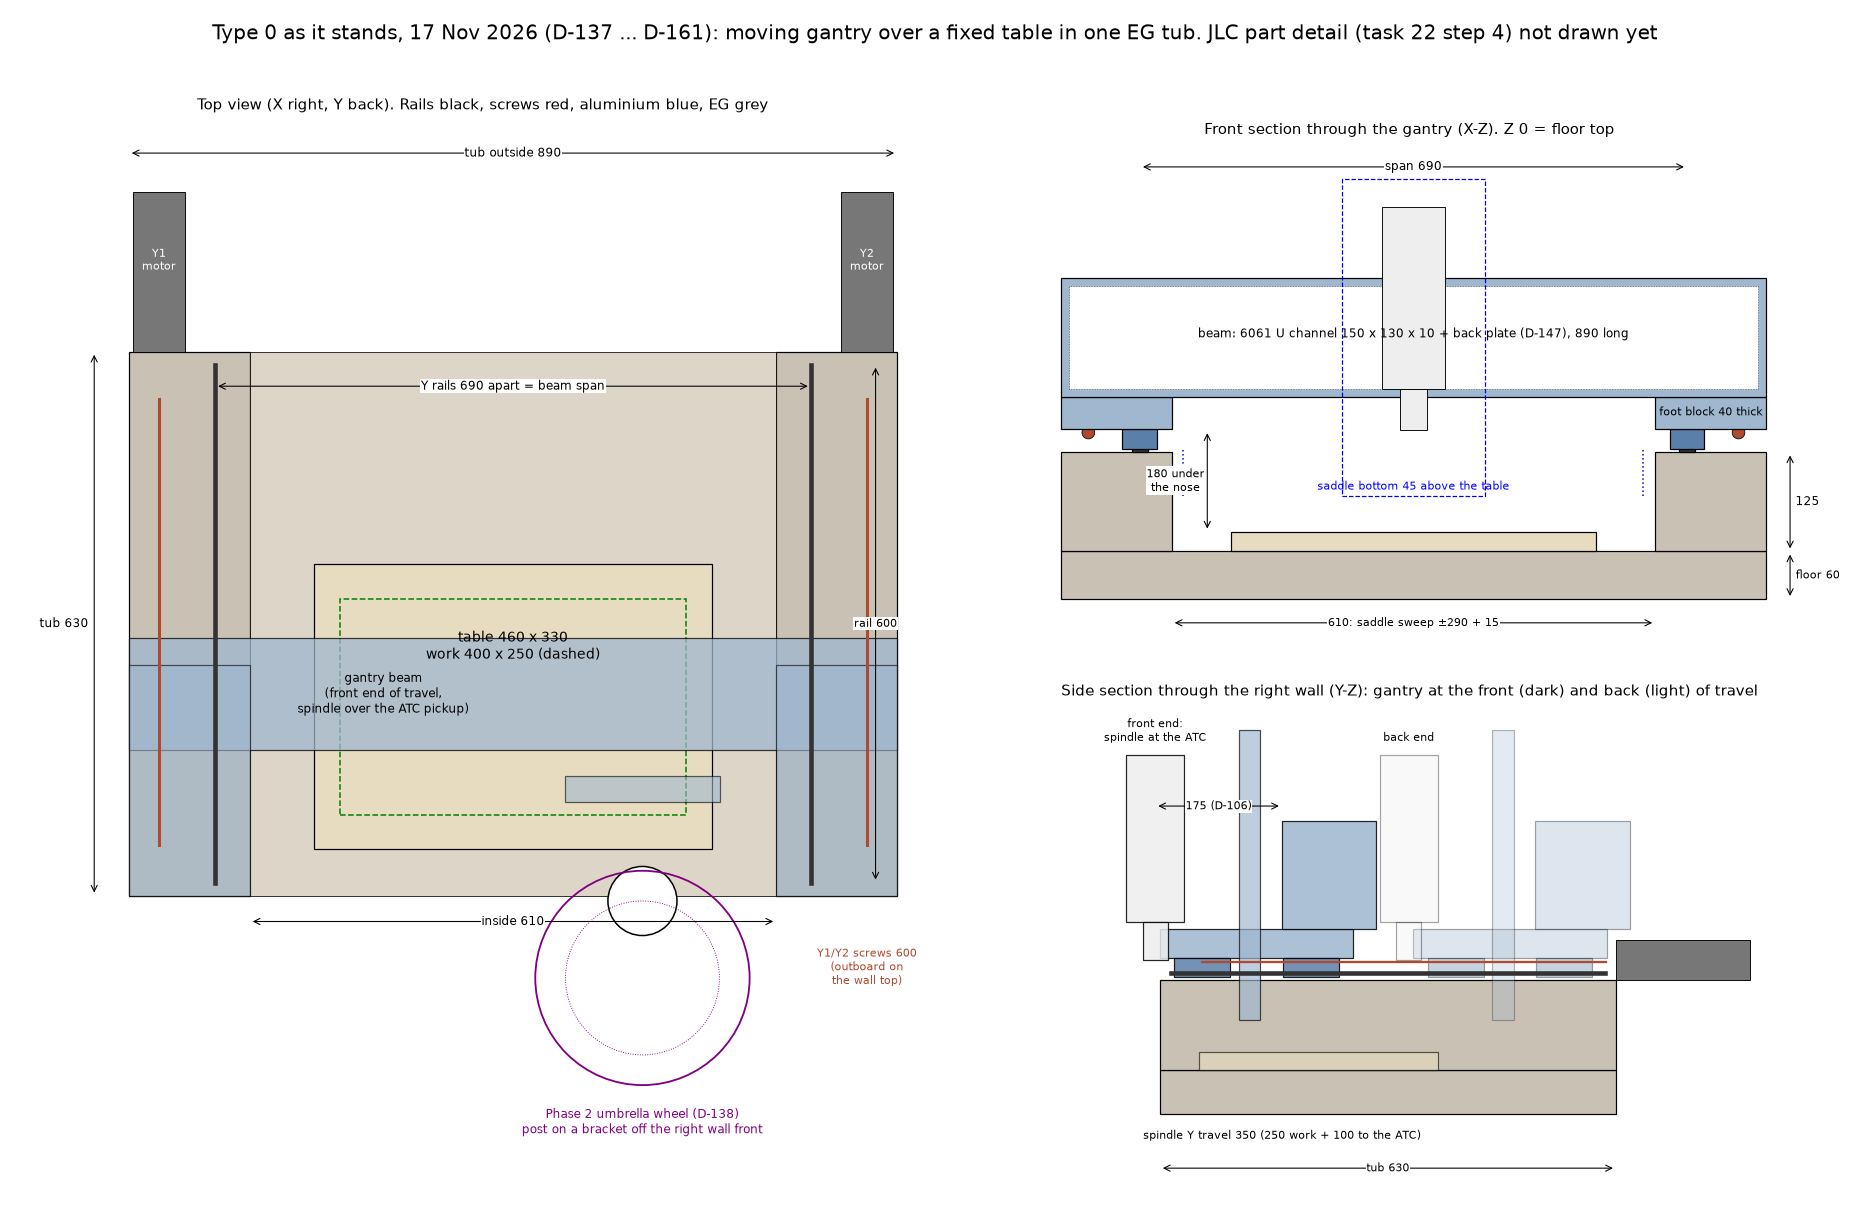
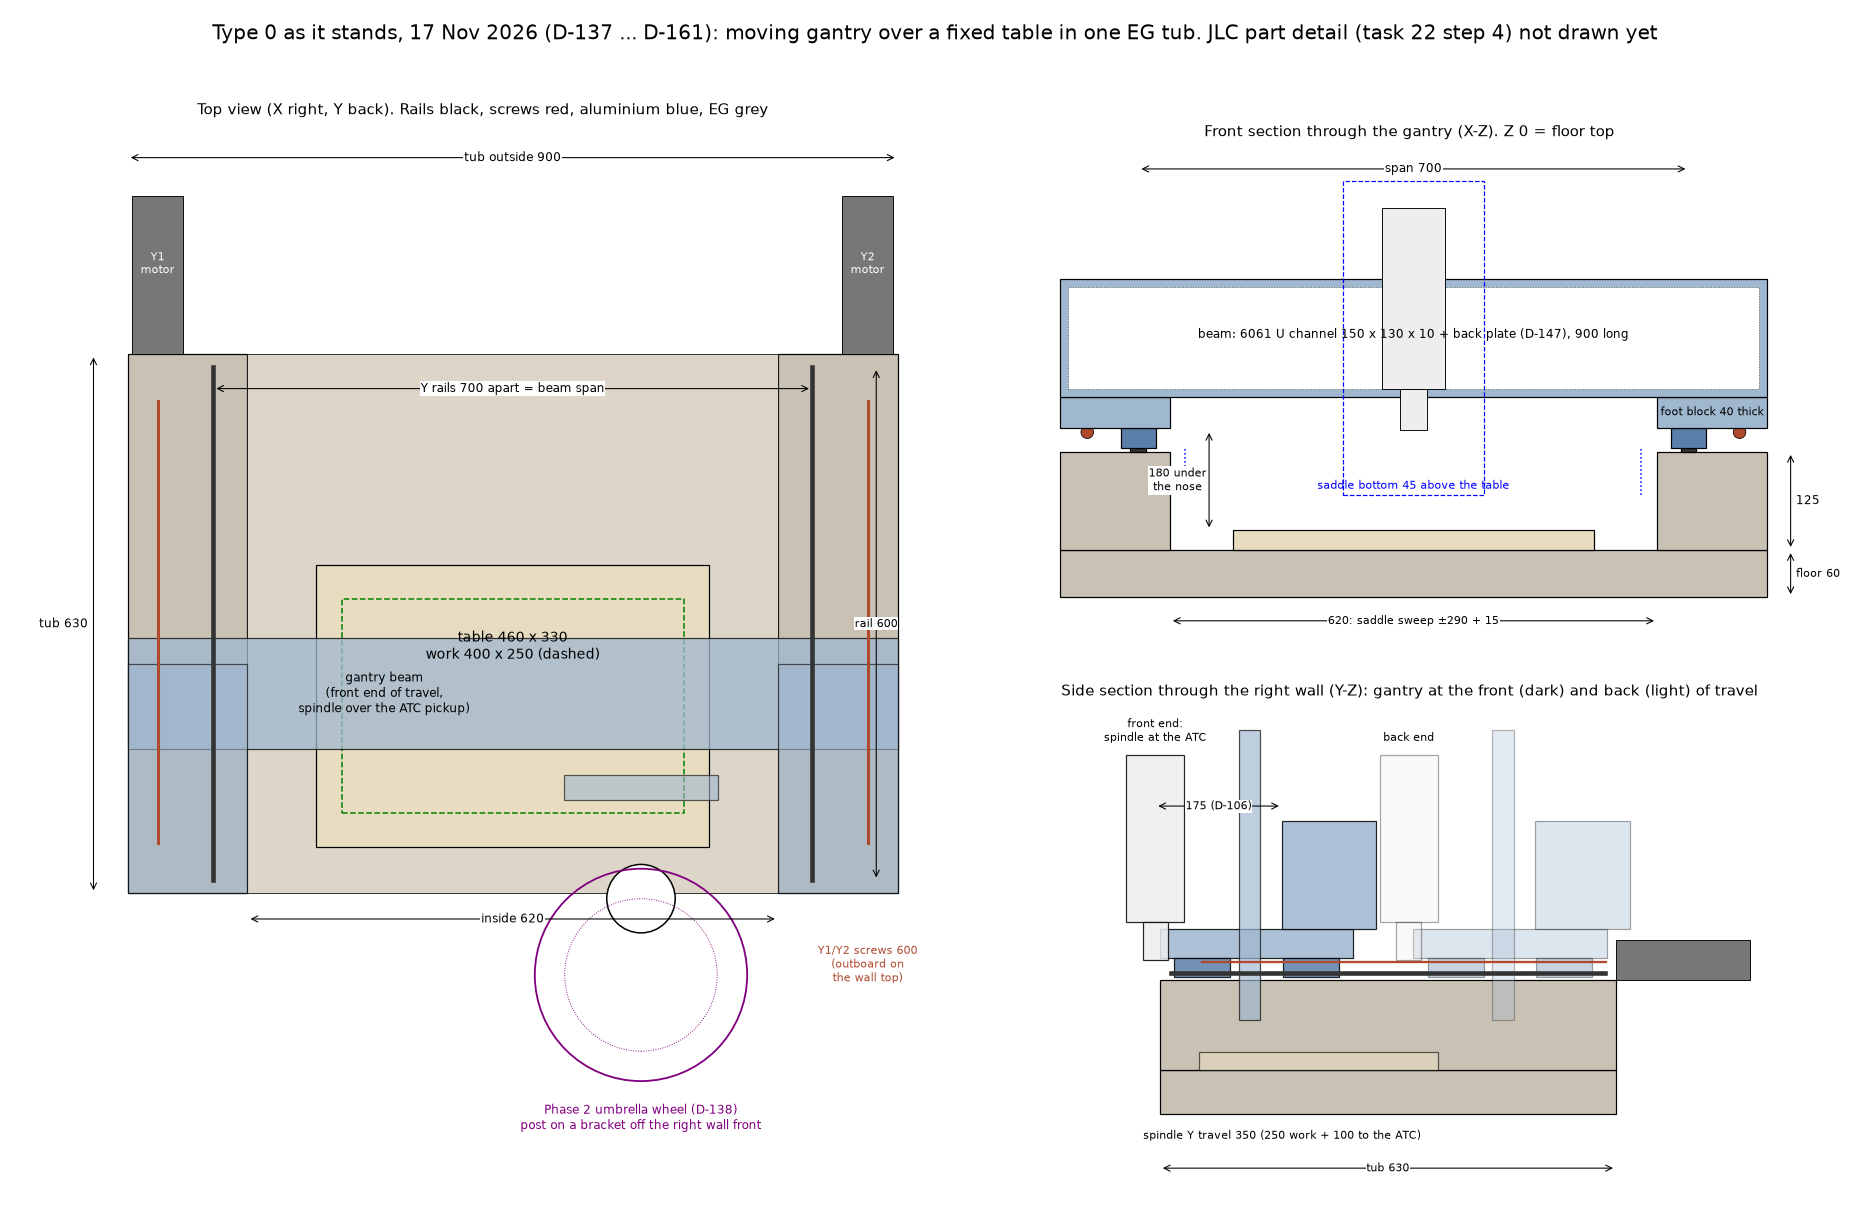
D-173: widen the tub to 900 so the Y rails sit 700 apart

diff --git a/cad/v2/gantry_sketch.py b/cad/v2/gantry_sketch.py
@@ -35,12 +35,12 @@ S["beam_zc"] = S["nose_top"] + 65                        # same Z stack as now (
 S["beam_z"] = (S["beam_zc"] - beam_h / 2, S["beam_zc"] + beam_h / 2)
 S["saddle_z0"] = S["beam_zc"] - 200                      # 400-tall saddle, unchanged
 S["saddle_x_sweep"] = work_x / 2 + saddle_w / 2          # 290
-S["wall_in_x"] = S["saddle_x_sweep"] + 15                # 305: saddle clears the walls
+S["wall_in_x"] = S["saddle_x_sweep"] + 20                # 310: Y rails 700 apart for the PrintNC gantry (D-173)
 wall_w = 140.0
 S["wall_w"] = wall_w
 S["rail_x"] = S["wall_in_x"] + 40                        # rail on the wall top, 40 from the inner edge
 S["screw_x"] = S["rail_x"] + 65                          # screw outboard of the rail, same wall top (proposal A)
-S["wall_out_x"] = S["wall_in_x"] + wall_w                # 445
+S["wall_out_x"] = S["wall_in_x"] + wall_w                # 450
 S["span"] = 2 * S["rail_x"]                              # beam span between Y rails
 S["floor_t"] = 60.0
 S["wall_top"] = S["table_top"] + 100                     # proposal: walls 100 above the table

diff --git a/docs/tasks/README.md b/docs/tasks/README.md
@@ -4,7 +4,7 @@ The project is split into small tasks so each can be done in a fresh session wit
 
 ## Rules for every task (the owner's rules, short)
 - Branch `claude/hopeful-sagan-28twty` (continues `claude/charming-cori-349jm7`). Commit and push there.
-- **Ask the owner before deciding** anything not already decided. Record decisions in `docs/decisions.md` with the next D-number (last used: D-172).
+- **Ask the owner before deciding** anything not already decided. Record decisions in `docs/decisions.md` with the next D-number (last used: D-173).
 - **Prices:** only from a live page or from the owner, with the date. Never estimate. No eBay. Flag anything more than 10 % or £5 dearer.
 - `docs/bom.csv` is the source of truth (CRLF line endings). When Claude edits it, a hook (`tools/bom_hook.py`) runs the 5 generators automatically and reports only errors. After a hand edit, set `PYTHONUTF8=1` and run `python tools/gen_bom_md.py`, `tools/gen_phase1_xlsx.py`, `tools/gen_phase1_cost.py`, `tools/build_open_links.py`, `tools/gen_wave1_sheet.py`.
 - **Castings: keep them simple.** Do not add cast-in features. Phase 1 budget £4,200; priced total **£3,972.51, £227.49 left** (18 Nov 2026, D-164 steel SHS beam; G01 beam and G03 feet not priced; G02/G04 dropped).
@@ -41,7 +41,7 @@ The project is split into small tasks so each can be done in a fresh session wit
 | [18](18-rail-seat-and-assembly-procedure.md) | Rail-seat and assembly procedure | main session | 10, 11 | open |
 | [19](19-linuxcnc-config-after-the-bench-tests.md) | LinuxCNC config after the bench tests | Opus 5.5 is fine | owner's bench results (build weeks 3–6) | open |
 | [21](21-hl-motion-check.md) | HL Motion check: all motion parts from one seller (curl) | Opus 5.5 is fine | none | done: no single seller; owner decides (rails only?) |
-| [22](22-moving-gantry-redesign.md) | **Moving-gantry redesign (D-137, D-138): sketch first** | main session | none | **steps 1–2 done (D-139 … D-143, `docs/moving-gantry-sketch.md`). Beam decided (D-147: JLC 6061 U channel + back plate; D-148 no tub skeleton; D-149 expansion test), `docs/beam-assessment.md`.** **Step 3 done (D-150 … D-158), `bom.csv` updated.** Next: **Checkout7 (17 Nov): rails right, HGH20CA 600 $43.33, DDP sea up to $129; Phase 1 £4,058.80.** Coupling set to 3 (owner, 17 Nov). F08/F20 dropped, hoist instead of lifting points (D-159); Tests cut to the mix bricks (D-160), torque wrench dropped (D-161); Phase 1 £3,972.51. then step 4 (STEP for the JLC quote). **Step 4 proposal (`docs/task22-step4.md`): 7 questions to the owner, no STEP yet.** **Beam check measured (`docs/beam-extrusion-check.md`): Vallder heavy EI Y 0.51 vs JLC 0.92; pick JLC; owner to choose.** **Basic STEP for the JLC price made (`cad/v2/out/jlc/`, 17 Nov): owner uploads and reports the quote.** **D-162: Vallder heavy beam chosen, JLC beam not needed. D-163: Vallder price £148.08 (the £229.56 was JLC shipping); Phase 1 £4,120.59, £79.41 left for G03. **D-164 (18 Nov): steel SHS 150 × 150 × 8 beam chosen; layout sketched, no clashes (`docs/steel-gantry-sketch.md`, 18 Nov; D-165, D-166, D-168 to D-171); next: owner answers its 2 items, size the steel saddle; owner prices the tube (`docs/steel-rhs-suppliers.md`).** **D-172 (18 Nov): PrintNC V4 gantry and rollers on the tub, scaled by parameters in Fusion; document unsaved, 8 features failing; next: owner saves it and answers the 3 items in `docs/printnc-assessment.md`.**** Was: the beam (D-143: how it is made, JLC max part size; **D-145: include an EG-filled beam and assess the internal skeleton for beam and tub**), then step 3 (lengths, LiMo basket, `bom.csv` list). Sketch lengths: Y rails 2 × 600, Y screws 2 × 600, X rails 2 × 600, X screw 700, Z 350. LiMo order still on hold |
+| [22](22-moving-gantry-redesign.md) | **Moving-gantry redesign (D-137, D-138): sketch first** | main session | none | **steps 1–2 done (D-139 … D-143, `docs/moving-gantry-sketch.md`). Beam decided (D-147: JLC 6061 U channel + back plate; D-148 no tub skeleton; D-149 expansion test), `docs/beam-assessment.md`.** **Step 3 done (D-150 … D-158), `bom.csv` updated.** Next: **Checkout7 (17 Nov): rails right, HGH20CA 600 $43.33, DDP sea up to $129; Phase 1 £4,058.80.** Coupling set to 3 (owner, 17 Nov). F08/F20 dropped, hoist instead of lifting points (D-159); Tests cut to the mix bricks (D-160), torque wrench dropped (D-161); Phase 1 £3,972.51. then step 4 (STEP for the JLC quote). **Step 4 proposal (`docs/task22-step4.md`): 7 questions to the owner, no STEP yet.** **Beam check measured (`docs/beam-extrusion-check.md`): Vallder heavy EI Y 0.51 vs JLC 0.92; pick JLC; owner to choose.** **Basic STEP for the JLC price made (`cad/v2/out/jlc/`, 17 Nov): owner uploads and reports the quote.** **D-162: Vallder heavy beam chosen, JLC beam not needed. D-163: Vallder price £148.08 (the £229.56 was JLC shipping); Phase 1 £4,120.59, £79.41 left for G03. **D-164 (18 Nov): steel SHS 150 × 150 × 8 beam chosen; layout sketched, no clashes (`docs/steel-gantry-sketch.md`, 18 Nov; D-165, D-166, D-168 to D-171); next: owner answers its 2 items, size the steel saddle; owner prices the tube (`docs/steel-rhs-suppliers.md`).** **D-172 (18 Nov): PrintNC V4 gantry and rollers on the tub, scaled by parameters in Fusion; document unsaved, 8 features failing; D-173: tub 900 × 630, Y rails 700 apart; next: owner saves it and chooses the Y screw position (`docs/printnc-assessment.md`).**** Was: the beam (D-143: how it is made, JLC max part size; **D-145: include an EG-filled beam and assess the internal skeleton for beam and tub**), then step 3 (lengths, LiMo basket, `bom.csv` list). Sketch lengths: Y rails 2 × 600, Y screws 2 × 600, X rails 2 × 600, X screw 700, Z 350. LiMo order still on hold |
 | [20](20-housekeeping-after-each-task.md) | Housekeeping after each task | any model | every task | open |
 
 ## Order

diff --git a/docs/HANDOVER.md b/docs/HANDOVER.md
@@ -6,6 +6,14 @@
 
 > **Older entries and sections 1-4, 6 and 7 are in `docs/handover-archive.md`.** Read it only if a task needs the history. Keep the two newest entries here.
 
+## 0000000000000000000000000. 18 Nov 2026: tub widened to 900 for the PrintNC gantry
+
+**Done:** owner chose to widen the tub by 10 (D-173). Tub is now 900 × 630, Y rails ± 350, inner walls ± 310, outer walls ± 450. `cad/v2/gantry_sketch.py` and its outputs are updated. Baseline tub 129.0 kg (was 128.1). The Fusion model already has the rails 700 apart and was not changed in this step.
+
+**Left:** the Fusion document is still **unsaved** with **8 failing features**. New open item: the PrintNC model has each Y screw directly above its rail, D-140 has it 65 outboard. `cad/v2/assembly.py` and `docs/moving-gantry-sketch.md` have not been updated to 900. `cad/v2/steel_gantry_sketch.py` was not re-run because D-172 replaces it.
+
+**Exact next step:** the owner saves the Fusion document under a new name and chooses the Y screw position (`docs/printnc-assessment.md`, open item 1). Use parameters only, never direct modelling.
+
 ## 000000000000000000000000. 18 Nov 2026: PrintNC V4 gantry scaled in Fusion (document NOT saved)
 
 **Done:** owner chose the PrintNC V4 gantry and rollers on the epoxy granite tub, with the 150 × 150 × 8 beam and the Type 0 Z axis (D-172). The open Fusion document `PrintNC V4 Metalcutter V4.0.38` is set by parameters only: cutting area 435 × 435 (600 rails), beam 150 × 150 × 8, radius 16, `XGantryOffset` 0. Details: `docs/printnc-assessment.md`.
@@ -13,14 +21,6 @@
 **Left:** the document is **unsaved** and **8 features fail**. 5 are in the YRoller-Gantry Drill Guide and were caused by the first 150 beam trial; the others are Extrude8 in XRollers, Rigid 164 and Rigid 110. Y rail spacing is 700 against the tub's 690. Not checked: room for the gantry brace at offset 0, clashes over the travel, the real tube corner radius. The STEP file and `cad/v2/Facebutton v2 frame.step` are untracked and not committed.
 
 **Exact next step:** the owner saves the Fusion document under a new name, then answers the 3 open items in `docs/printnc-assessment.md` (Y rail spacing first). Use parameters only, never direct modelling.
-
-## 00000000000000000000000. 18 Nov 2026: steel gantry sketch drawn, no clashes
-
-**Done:** `cad/v2/steel_gantry_sketch.py` draws the layout from one list of boxes and checks it over the full X, Y and Z travel: **no clashes**, all access holes clear. Outputs: `cad/v2/out/steel_gantry_sketch.png` and `.json`. Summary: `docs/steel-gantry-sketch.md`. Decisions: D-165 steel saddle, D-166 M10 joint, D-168 X motor folded over the screw with the drag chain on the back (supersedes D-167), D-169 foot step X 378 and X block pitch 90, D-170 ball nut flange flats 40, D-171 nut housings 20 off centre. Moving mass **86.8 kg**. Parts list unchanged.
-
-**Left:** 2 items are open. (1) Proposal to drop the Ø20 top-wall holes and fit the M10 bolts from the open tube ends, rear row back at X 345 and X 420 (would amend D-166; the script still has the holes and the rear row at X 395 and X 430). (2) 1 mm relief over each nut flange. Steel saddle sizes, drag chain size and route are open. Not verified: SHS corner radius (flat width). `cad/v2/Facebutton v2 frame.step` is still untracked: ask the owner what it is.
-
-**Exact next step:** get the owner's answer on the 2 items in `docs/steel-gantry-sketch.md`, apply them to the script and re-run, size the steel saddle, record them (next: D-172). Then the owner starts the gantry in Fusion and prices the tube (Dyfed Steels first).
 
 ## 5. Owner's rules
 - **Use the Q&A tool heavily** before decisions. Ask, don't assume. The owner pushes back on design details: take it seriously and check mouldability and casting orientation (e.g. D-113).

diff --git a/docs/handover-archive.md b/docs/handover-archive.md
@@ -2,6 +2,14 @@
 
 Older entries moved unchanged from `docs/HANDOVER.md` on 18 Nov 2026, newest first. Much of this describes superseded designs: `docs/decisions.md` and the current `docs/HANDOVER.md` take priority.
 
+## 00000000000000000000000. 18 Nov 2026: steel gantry sketch drawn, no clashes
+
+**Done:** `cad/v2/steel_gantry_sketch.py` draws the layout from one list of boxes and checks it over the full X, Y and Z travel: **no clashes**, all access holes clear. Outputs: `cad/v2/out/steel_gantry_sketch.png` and `.json`. Summary: `docs/steel-gantry-sketch.md`. Decisions: D-165 steel saddle, D-166 M10 joint, D-168 X motor folded over the screw with the drag chain on the back (supersedes D-167), D-169 foot step X 378 and X block pitch 90, D-170 ball nut flange flats 40, D-171 nut housings 20 off centre. Moving mass **86.8 kg**. Parts list unchanged.
+
+**Left:** 2 items are open. (1) Proposal to drop the Ø20 top-wall holes and fit the M10 bolts from the open tube ends, rear row back at X 345 and X 420 (would amend D-166; the script still has the holes and the rear row at X 395 and X 430). (2) 1 mm relief over each nut flange. Steel saddle sizes, drag chain size and route are open. Not verified: SHS corner radius (flat width). `cad/v2/Facebutton v2 frame.step` is still untracked: ask the owner what it is.
+
+**Exact next step:** get the owner's answer on the 2 items in `docs/steel-gantry-sketch.md`, apply them to the script and re-run, size the steel saddle, record them (next: D-172). Then the owner starts the gantry in Fusion and prices the tube (Dyfed Steels first).
+
 ## 0000000000000000000000. 18 Nov 2026: steel gantry layout brief (sketch NOT drawn)
 
 **Done:** the layout below was worked out by hand. **Not done:** no script, PNG or note exists; no clash check has been run; the owner has not seen or agreed these numbers. All of it is a proposal: no D-numbers.

diff --git a/docs/printnc-assessment.md b/docs/printnc-assessment.md
@@ -1,6 +1,6 @@
 # PrintNC V4 gantry on Type 0 (18 Nov 2026)
 
-**Status: the parametric model is set to the Type 0 sizes, with 8 features still failing. The Fusion document is NOT saved.** Decision: D-172.
+**Status: the parametric model is set to the Type 0 sizes, with 8 features still failing. The Fusion document is NOT saved.** Decisions: D-172, D-173.
 
 ## Sources
 
@@ -29,10 +29,11 @@ Parameters only. No direct modelling.
 |---|---|
 | X and Y rails | 600 |
 | Gantry length | 775 |
-| Y rail spacing | **700** (Type 0 tub: 690) |
+| Y rail spacing | **700**, tub widened to suit (D-173) |
 | X rails | Top and bottom of the beam, seats 150 apart |
 | Top roller, bottom roller | 150 wide, 175 wide by formula |
 | X and Y screw length in the model | 700 (Type 0: X 700, Y 600) |
+| Y screw position in the model | **Directly above the Y rail**, X ± 350 (Type 0, D-140: 65 outboard of the rail, X ± 415) |
 
 ## Still failing (8 features)
 
@@ -60,6 +61,6 @@ Parameters only. No direct modelling.
 
 ## Open for the owner
 
-1. **Y rail spacing:** widen the tub by 10 to suit 700, or keep 690 with a 65 wide Y roller.
+1. **Y screw position:** PrintNC puts the screw directly above the rail, inside the roller. D-140 puts it 65 outboard on the wall top. Choose one before the rollers and the wall tops are drawn.
 2. **Drill guide:** repair the 5 failed features by undo or by hand in Fusion, or replace the guide.
 3. **Steel gantry sketch:** D-172 replaces its gantry layout, so its 2 open items need closing.

diff --git a/docs/decisions.md b/docs/decisions.md
@@ -174,3 +174,4 @@
 | D-170 | **Ball nut flanges are 40 across the flats, flats top and bottom**: no 12 × 30 × 5 relief slots. DFU01605-4: A 48, H 40, B 10, L 100 | Owner, 18 Nov 2026, with the catalogue sheet |
 | D-171 | **Ball nut housings sit 20 off the carriage centre, towards the flange**, because the flange bolts to the housing end face. The nut stays within 50 of the carriage centre, so the screw lengths do not change | Owner, 18 Nov 2026: "sure" |
 | D-172 | **Take the PrintNC V4 gantry and rollers, scaled from its parametric Fusion model, onto the epoxy granite tub.** Beam stays SHS 150 × 150 × 8 (D-164). The Type 0 Z axis stays. Parameters only, no direct modelling. Replaces the gantry layout in `docs/steel-gantry-sketch.md` | Owner, 18 Nov 2026. See `docs/printnc-assessment.md` |
+| D-173 | **Tub widened by 10 to 900 × 630: Y rails 700 apart (± 350).** Inner wall faces ± 310, outer ± 450, walls stay 140 wide. Suits the PrintNC gantry (D-172). Amends D-139 | Owner, 18 Nov 2026. Baseline tub 128.1 to 129.0 kg |

diff --git a/docs/steel-gantry-sketch.md b/docs/steel-gantry-sketch.md
@@ -1,6 +1,6 @@
 # Steel gantry layout sketch (18 Nov 2026)
 
-**Status: no clashes. Waiting for the owner to agree the layout.** Decisions: D-164 to D-166, D-168 to D-171. Drawing: `cad/v2/out/steel_gantry_sketch.png`. Numbers: `cad/v2/out/steel_gantry_sketch.json`. Script: `cad/v2/steel_gantry_sketch.py`.
+**Status: replaced by the PrintNC gantry (D-172). This sketch was drawn for the 890 wide tub, before D-173, and has not been re-run.** Its check found no clashes. Decisions: D-164 to D-166, D-168 to D-171. Drawing: `cad/v2/out/steel_gantry_sketch.png`. Numbers: `cad/v2/out/steel_gantry_sketch.json`. Script: `cad/v2/steel_gantry_sketch.py`.
 
 ## Result
 
